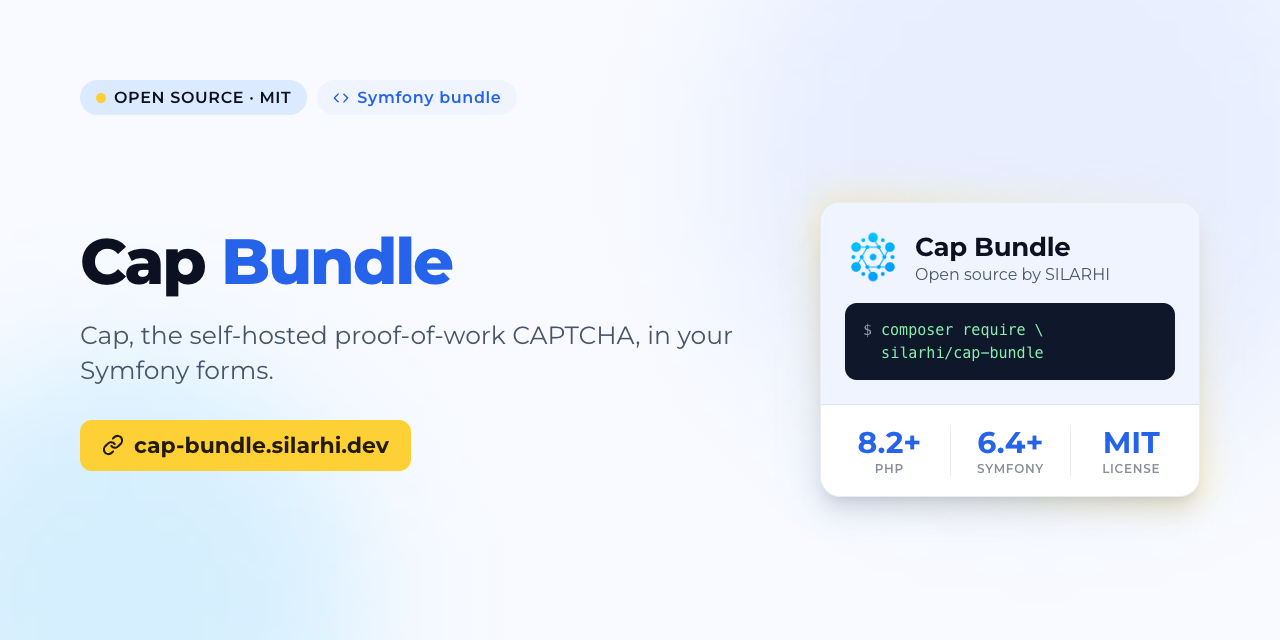
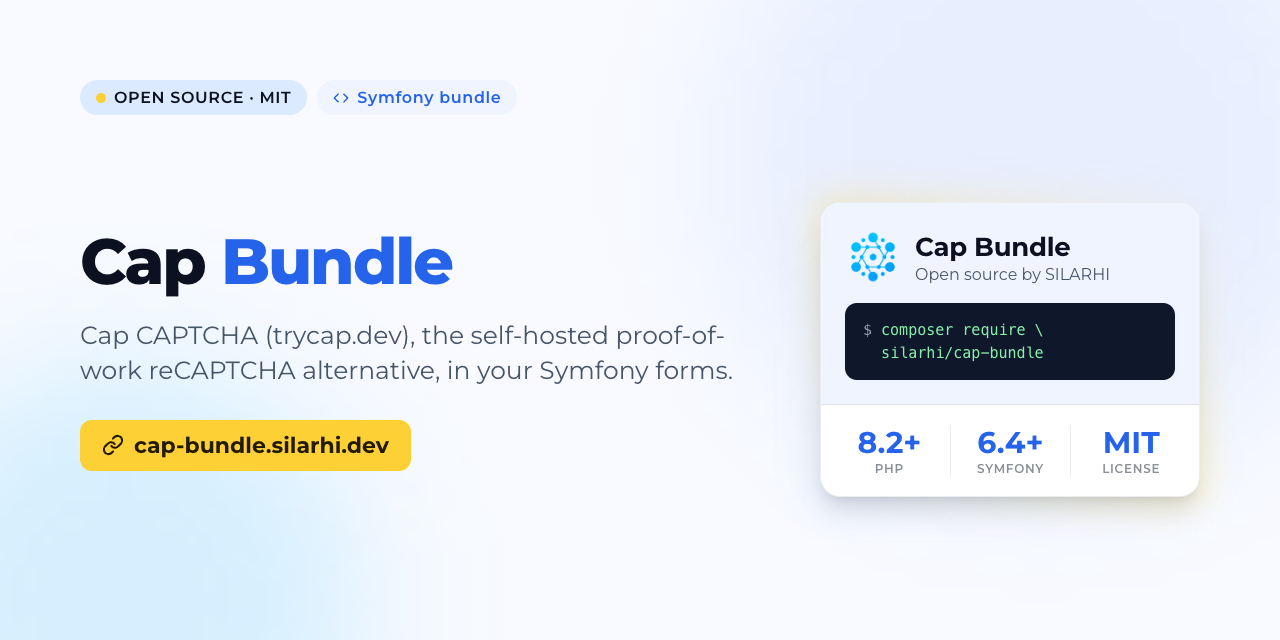
Name Cap CAPTCHA and trycap.dev in the Cap Bundle entry

Changed region(s): [[0.0625, 0.5, 0.5625, 0.5938]]

diff --git a/packages/docs-kit/packages.js b/packages/docs-kit/packages.js
@@ -47,8 +47,9 @@ export const packages = [
     {
         slug: 'cap-bundle',
         name: 'Cap Bundle',
-        headline: 'Cap CAPTCHA for Symfony forms',
-        description: 'Cap, the self-hosted proof-of-work CAPTCHA, in your Symfony forms.',
+        headline: 'trycap.dev CAPTCHA for Symfony forms',
+        description:
+            'Cap CAPTCHA (trycap.dev), the self-hosted proof-of-work reCAPTCHA alternative, in your Symfony forms.',
         composer: 'silarhi/cap-bundle',
         published: true,
         umami: '6a2d5575-d74b-414e-b960-e3829d8a499c',
